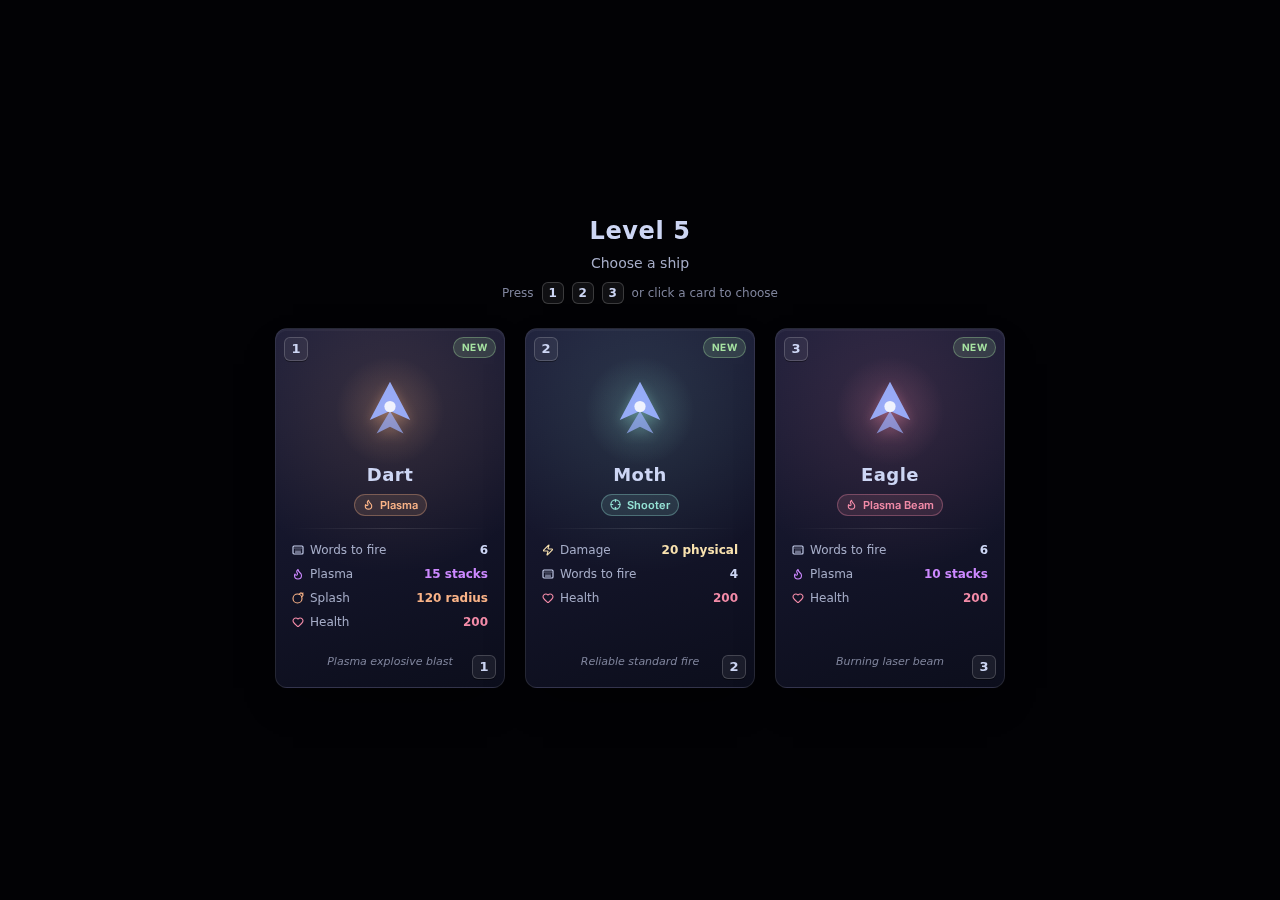
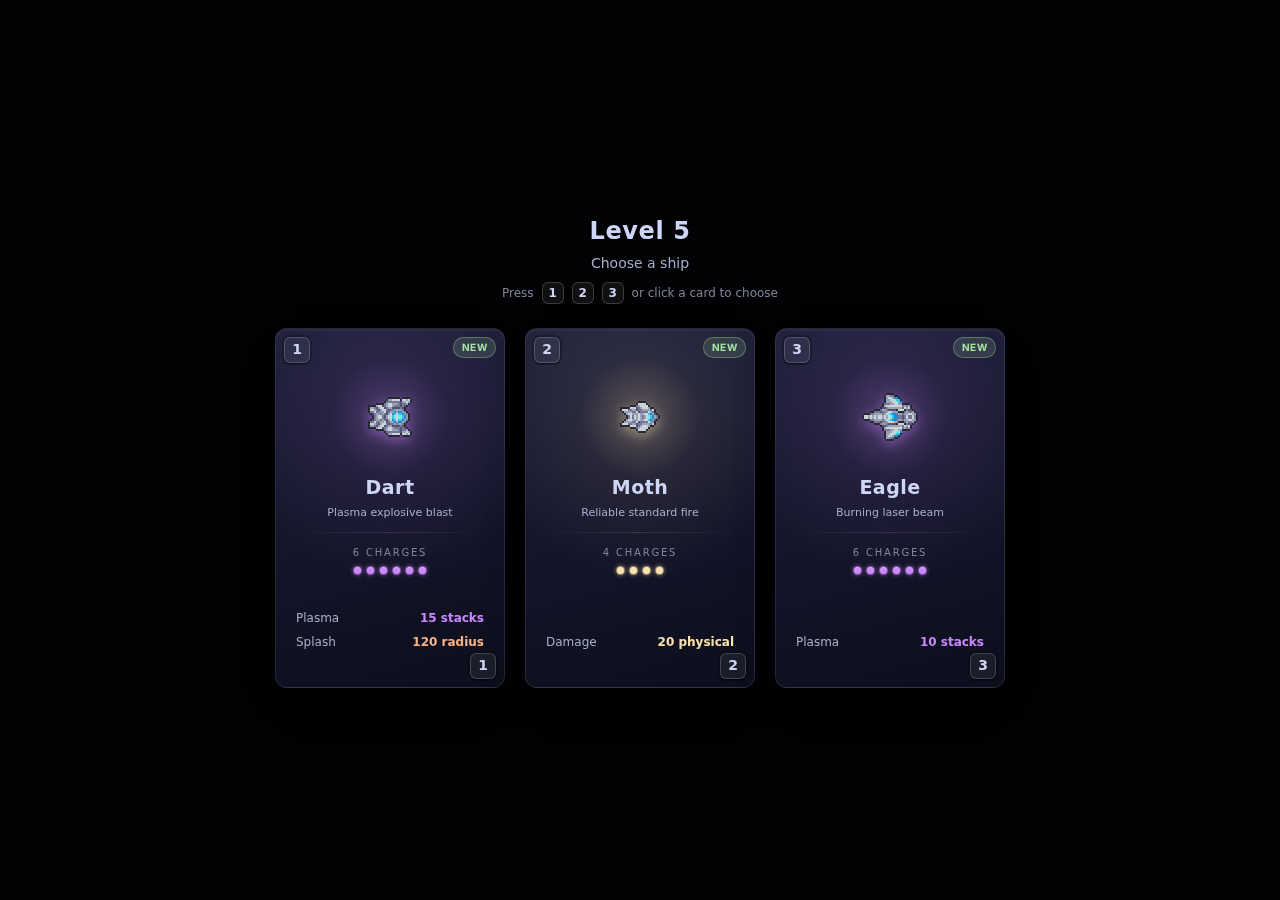
Rework ship cards: drop health/badge/per-tick, add charge dots
Agent-Logs-Url: https://github.com/tfritzy/typerace.io/sessions/5fbc6c6f-845c-4fbf-8b9f-e92bfc760b2f

diff --git a/frontend/src/games/cosmic-defense/ShipChoiceOverlay.tsx b/frontend/src/games/cosmic-defense/ShipChoiceOverlay.tsx
@@ -1,17 +1,7 @@
 import { useMemo, useEffect, useCallback } from "react";
-import {
-  Zap,
-  Heart,
-  Flame,
-  Snowflake,
-  Link as LinkIcon,
-  Bomb,
-  Keyboard,
-  type LucideIcon,
-} from "lucide-react";
-import { SHIP_BLUEPRINTS, ROLE_META } from "./shipCatalog";
+import { SHIP_BLUEPRINTS } from "./shipCatalog";
 import { FRIENDLY_CONFIG_MAP, getScaledConfig, type FriendlyConfig } from "./enemyConfig";
-import { DamageType, FireMode, type EntityType } from "./types";
+import { DamageType, type EntityType } from "./types";
 import type { PlacementSlot } from "./PlacementPoints";
 
 const CONSISTENT_DAMAGE_ROLES = new Set([
@@ -26,58 +16,45 @@ interface ShipChoiceOverlayProps {
 }
 
 interface StatRow {
-  icon: LucideIcon;
   label: string;
   value: string;
   color: string;
 }
 
-const DAMAGE_TYPE_LABEL: Record<DamageType, string> = {
-  [DamageType.Physical]: "physical",
-  [DamageType.Laser]: "laser",
-  [DamageType.Plasma]: "plasma",
-  [DamageType.Ice]: "ice",
-};
+function damageTypeLabel(t: DamageType): string {
+  if (t === DamageType.Physical) return "physical";
+  if (t === DamageType.Plasma) return "plasma";
+  if (t === DamageType.Ice) return "ice";
+  return "";
+}
 
-function formatDamage(config: FriendlyConfig): string {
-  if (config.fireMode === FireMode.Laser) {
-    if (config.laserDamage > 0) {
-      const typeLabel = DAMAGE_TYPE_LABEL[config.damageType] ?? "";
-      return `${config.laserDamage} ${typeLabel}/tick`.trim();
-    }
-    return "—";
-  }
-  const typeLabel = DAMAGE_TYPE_LABEL[config.damageType] ?? "";
-  if (config.projectileDamage <= 0) return "—";
-  if (config.fireCount > 1) {
-    return `${config.projectileDamage} × ${config.fireCount} ${typeLabel}`.trim();
-  }
-  return `${config.projectileDamage} ${typeLabel}`.trim();
+function damageTypeColor(t: DamageType): string {
+  if (t === DamageType.Physical) return "#f9e2af";
+  if (t === DamageType.Plasma) return "#cc88ff";
+  if (t === DamageType.Ice) return "#89dceb";
+  return "#f9e2af";
+}
+
+function formatDamageValue(amount: number, fireCount: number, type: DamageType): string {
+  const typeLabel = damageTypeLabel(type);
+  const numberPart = fireCount > 1 ? `${amount} × ${fireCount}` : `${amount}`;
+  return typeLabel ? `${numberPart} ${typeLabel}` : numberPart;
 }
 
 function getShipStats(config: FriendlyConfig): StatRow[] {
   const rows: StatRow[] = [];
 
-  const damageStr = formatDamage(config);
-  if (damageStr !== "—") {
+  const damageAmount = config.projectileDamage > 0 ? config.projectileDamage : config.laserDamage;
+  if (damageAmount > 0) {
     rows.push({
-      icon: Zap,
       label: "Damage",
-      value: damageStr,
-      color: "#f9e2af",
+      value: formatDamageValue(damageAmount, config.fireCount, config.damageType),
+      color: damageTypeColor(config.damageType),
     });
   }
 
-  rows.push({
-    icon: Keyboard,
-    label: "Words to fire",
-    value: `${config.chargesRequired}`,
-    color: "#cdd6f4",
-  });
-
   if (config.plasmaStacks > 0) {
     rows.push({
-      icon: Flame,
       label: "Plasma",
       value: `${config.plasmaStacks} stacks`,
       color: "#cc88ff",
@@ -85,18 +62,15 @@ function getShipStats(config: FriendlyConfig): StatRow[] {
   }
 
   if (config.freezeStacks > 0) {
-    const seconds = config.freezeStacks;
     rows.push({
-      icon: Snowflake,
       label: "Freeze",
-      value: `${seconds} sec`,
+      value: `${config.freezeStacks} sec`,
       color: "#89dceb",
     });
   }
 
   if (config.chainCount > 0) {
     rows.push({
-      icon: LinkIcon,
       label: "Chain",
       value: `${config.chainCount} jumps`,
       color: "#a6e3a1",
@@ -105,19 +79,11 @@ function getShipStats(config: FriendlyConfig): StatRow[] {
 
   if (config.explosionRadius > 0) {
     rows.push({
-      icon: Bomb,
       label: "Splash",
       value: `${config.explosionRadius} radius`,
       color: "#fab387",
     });
   }
-
-  rows.push({
-    icon: Heart,
-    label: "Health",
-    value: `${config.health}`,
-    color: "#f38ba8",
-  });
 
   return rows;
 }
@@ -152,12 +118,12 @@ function generateChoices(slots: PlacementSlot[]): EntityType[] {
 const CARD_WIDTH = 230;
 const CARD_HEIGHT = 360;
 
-interface CornerRankProps {
+interface CornerHotkeyProps {
   hotkey: number;
   flipped?: boolean;
 }
 
-const CornerRank = ({ hotkey, flipped }: CornerRankProps) => (
+const CornerHotkey = ({ hotkey, flipped }: CornerHotkeyProps) => (
   <div
     className="absolute flex items-center justify-center select-none pointer-events-none rounded-md"
     style={{
@@ -165,21 +131,49 @@ const CornerRank = ({ hotkey, flipped }: CornerRankProps) => (
       bottom: flipped ? 8 : "auto",
       left: flipped ? "auto" : 8,
       right: flipped ? 8 : "auto",
-      width: 24,
-      height: 24,
+      width: 26,
+      height: 26,
       background: "rgba(255,255,255,0.06)",
       border: "1px solid rgba(255,255,255,0.18)",
-      boxShadow: "0 1px 0 rgba(0,0,0,0.4)",
+      boxShadow: "0 1px 0 rgba(0,0,0,0.4), 0 0 0 2px rgba(0,0,0,0.25)",
       color: "#cdd6f4",
       fontFamily: "system-ui, sans-serif",
-      fontSize: 13,
+      fontSize: 14,
       fontWeight: 700,
-      letterSpacing: "-0.02em",
     }}
   >
     {hotkey}
   </div>
 );
+
+interface ChargeDotsProps {
+  charges: number;
+  accent: string;
+}
+
+const ChargeDots = ({ charges, accent }: ChargeDotsProps) => {
+  const dots = Array.from({ length: charges }, (_, i) => i);
+  return (
+    <div
+      className="flex flex-wrap gap-1 justify-center px-3"
+      style={{ maxWidth: "100%" }}
+    >
+      {dots.map((i) => (
+        <span
+          key={i}
+          style={{
+            width: 9,
+            height: 9,
+            borderRadius: "50%",
+            background: accent,
+            boxShadow: `0 0 4px ${accent}88, inset 0 1px 0 rgba(255,255,255,0.4)`,
+            border: "1px solid rgba(0,0,0,0.4)",
+          }}
+        />
+      ))}
+    </div>
+  );
+};
 
 interface ShipCardProps {
   entityType: EntityType;
@@ -205,13 +199,12 @@ const ShipCard = ({
     : baseConfig;
 
   const stats = getShipStats(displayConfig);
-  const role = ROLE_META[bp.role];
-  const RoleIcon = role.icon;
+  const accent = damageTypeColor(displayConfig.damageType);
 
   return (
     <button
       onClick={() => onSelect(entityType)}
-      className="relative flex flex-col rounded-xl cursor-pointer transition-all text-left overflow-hidden group"
+      className="relative flex flex-col rounded-xl cursor-pointer transition-all text-left overflow-hidden"
       style={{
         width: CARD_WIDTH,
         height: CARD_HEIGHT,
@@ -222,9 +215,9 @@ const ShipCard = ({
           "0 18px 40px -18px rgba(0,0,0,0.85), 0 2px 0 rgba(255,255,255,0.04) inset",
       }}
       onMouseEnter={(e) => {
-        e.currentTarget.style.borderColor = role.color;
+        e.currentTarget.style.borderColor = accent;
         e.currentTarget.style.transform = "translateY(-4px)";
-        e.currentTarget.style.boxShadow = `0 24px 48px -16px rgba(0,0,0,0.9), 0 0 0 1px ${role.color}55, 0 0 24px -4px ${role.color}55, 0 2px 0 rgba(255,255,255,0.04) inset`;
+        e.currentTarget.style.boxShadow = `0 24px 48px -16px rgba(0,0,0,0.9), 0 0 0 1px ${accent}55, 0 0 24px -4px ${accent}55, 0 2px 0 rgba(255,255,255,0.04) inset`;
       }}
       onMouseLeave={(e) => {
         e.currentTarget.style.borderColor = "rgba(255,255,255,0.10)";
@@ -236,12 +229,12 @@ const ShipCard = ({
       <div
         className="absolute inset-0 pointer-events-none"
         style={{
-          background: `radial-gradient(circle at 50% 22%, ${role.color}22 0%, transparent 55%)`,
+          background: `radial-gradient(circle at 50% 24%, ${accent}1f 0%, transparent 55%)`,
         }}
       />
 
-      <CornerRank hotkey={hotkey} />
-      <CornerRank hotkey={hotkey} flipped />
+      <CornerHotkey hotkey={hotkey} />
+      <CornerHotkey hotkey={hotkey} flipped />
 
       <div
         className="absolute top-2 right-2 px-2 py-0.5 rounded-full text-[10px] font-bold tracking-wider"
@@ -263,16 +256,16 @@ const ShipCard = ({
       </div>
 
       <div
-        className="relative flex items-center justify-center mt-9 mb-1"
-        style={{ height: 92 }}
+        className="relative flex items-center justify-center mt-10 mb-1"
+        style={{ height: 96 }}
       >
         <div
           className="absolute"
           style={{
-            width: 110,
-            height: 110,
+            width: 120,
+            height: 120,
             borderRadius: "50%",
-            background: `radial-gradient(circle, ${role.color}33 0%, transparent 70%)`,
+            background: `radial-gradient(circle, ${accent}33 0%, transparent 70%)`,
           }}
         />
         {preview && (
@@ -280,32 +273,30 @@ const ShipCard = ({
             src={preview}
             alt={entityType}
             style={{
-              width: 72,
-              height: 72,
+              maxWidth: 96,
+              maxHeight: 96,
+              width: "auto",
+              height: "auto",
+              objectFit: "contain",
               imageRendering: "pixelated",
-              filter: `drop-shadow(0 4px 6px ${role.color}66)`,
+              filter: `drop-shadow(0 4px 6px ${accent}66)`,
             }}
           />
         )}
       </div>
 
-      <div className="relative flex flex-col items-center px-3">
+      <div className="relative flex flex-col items-center px-3 mt-1">
         <span
           className="text-[#cdd6f4] font-bold tracking-wide"
-          style={{ fontSize: 18, fontFamily: "system-ui, sans-serif" }}
+          style={{ fontSize: 19, fontFamily: "system-ui, sans-serif" }}
         >
           {entityType}
         </span>
         <span
-          className="flex items-center gap-1.5 mt-1.5 px-2 py-0.5 rounded-full text-[11px] font-semibold"
-          style={{
-            background: `${role.color}1f`,
-            color: role.color,
-            border: `1px solid ${role.color}55`,
-          }}
+          className="text-[11px] text-[#a6adc8] mt-1 text-center leading-snug px-2"
+          style={{ fontFamily: "system-ui, sans-serif" }}
         >
-          <RoleIcon size={11} strokeWidth={2.5} />
-          {role.label}
+          {bp.description}
         </span>
       </div>
 
@@ -318,32 +309,29 @@ const ShipCard = ({
         }}
       />
 
-      <div className="relative flex flex-col gap-1.5 px-4">
-        {stats.map((s) => {
-          const StatIcon = s.icon;
-          return (
-            <div
-              key={s.label}
-              className="flex items-center justify-between text-[12px]"
-              style={{ fontFamily: "system-ui, sans-serif" }}
-            >
-              <span className="flex items-center gap-1.5 text-[#a6adc8]">
-                <StatIcon size={12} strokeWidth={2.25} color={s.color} />
-                {s.label}
-              </span>
-              <span className="font-semibold" style={{ color: s.color }}>
-                {s.value}
-              </span>
-            </div>
-          );
-        })}
+      <div className="relative flex flex-col items-center mb-2.5">
+        <span
+          className="text-[10px] uppercase tracking-[0.18em] text-[#7f849c] mb-1.5"
+          style={{ fontFamily: "system-ui, sans-serif" }}
+        >
+          {`${displayConfig.chargesRequired} charges`}
+        </span>
+        <ChargeDots charges={displayConfig.chargesRequired} accent={accent} />
       </div>
 
-      <div
-        className="relative mt-auto px-9 pb-4 pt-3 text-[11px] italic text-center text-[#7f849c]"
-        style={{ fontFamily: "system-ui, sans-serif" }}
-      >
-        {bp.description}
+      <div className="relative flex flex-col gap-1.5 px-5 mt-auto pb-9">
+        {stats.map((s) => (
+          <div
+            key={s.label}
+            className="flex items-center justify-between text-[12px]"
+            style={{ fontFamily: "system-ui, sans-serif" }}
+          >
+            <span className="text-[#a6adc8]">{s.label}</span>
+            <span className="font-semibold" style={{ color: s.color }}>
+              {s.value}
+            </span>
+          </div>
+        ))}
       </div>
     </button>
   );
